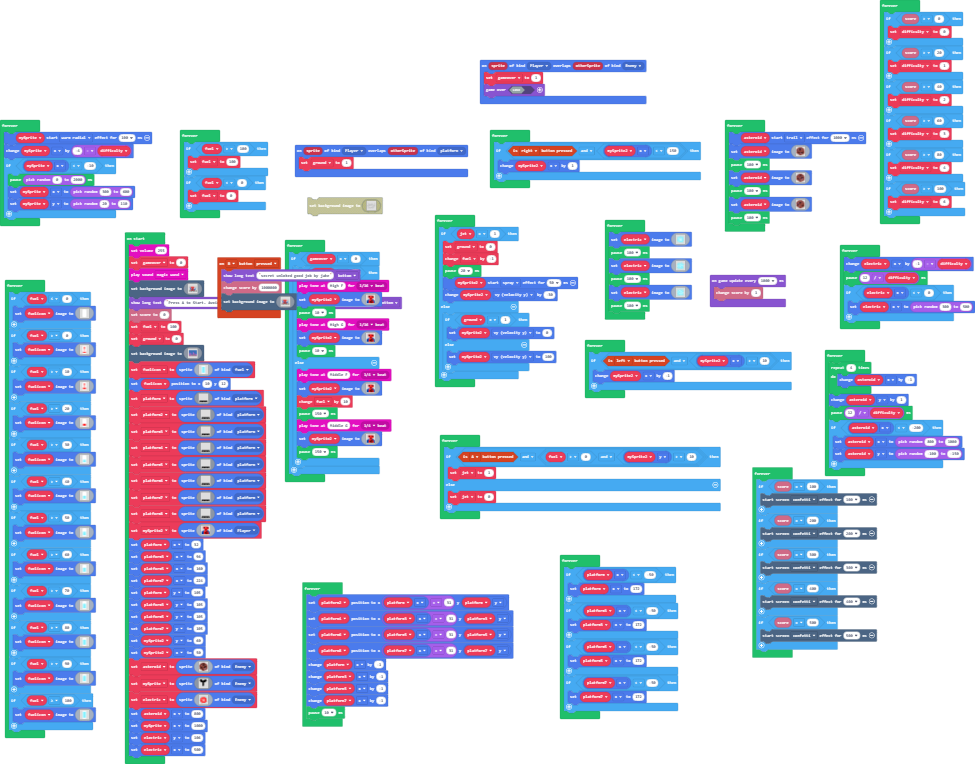
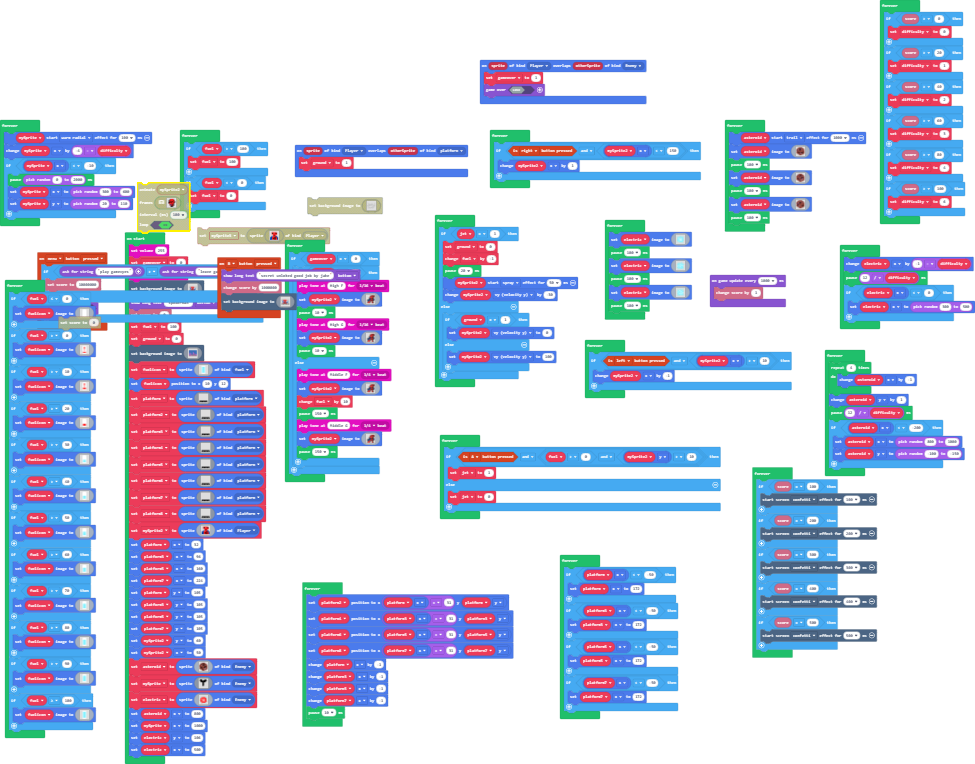
Update pxt.json, main.blocks, main.ts, images.g.jres, images.g.ts

Changed region(s): [[0.0308, 0.2408, 0.3385, 0.4516], [0.3692, 0.3914, 0.4308, 0.4215]]

diff --git a/main.ts b/main.ts
@@ -15,6 +15,13 @@ sprites.onOverlap(SpriteKindLegacy.Player, SpriteKindLegacy.Enemy, function (spr
     gameover = 1
     game.over(false)
 })
+controller.menu.onEvent(ControllerButtonEvent.Pressed, function () {
+    if (game.askForString("play game=yes") > game.askForString("leave game=no")) {
+        info.setScore(10000000)
+    } else {
+        game.gameOver(false)
+    }
+})
 sprites.onOverlap(SpriteKindLegacy.Player, SpriteKindLegacy.platform, function (sprite, otherSprite) {
     ground = 1
 })
@@ -26,7 +33,7 @@ music.setVolume(255)
 gameover = 0
 music.magicWand.play()
 scene.setBackgroundImage(assets.image`game title`)
-game.showLongText("Press A to Start. Avoid missiles, asteroids and electric things. Use  DPad and A to jetpack.", DialogLayout.Bottom)
+game.showLongText("spoderman", DialogLayout.Bottom)
 info.setScore(0)
 let fuel = 100
 ground = 0
@@ -661,18 +668,118 @@ forever(function () {
     if (gameover == 0) {
         if (ground == 0) {
             music.playTone(698, music.beat(BeatFraction.Sixteenth))
-            mySprite2.setImage(assets.image`spooder man`)
+            mySprite2.setImage(img`
+                ..............ffffffff..
+                .............f222222f2f.
+                ..........fff222f22f22ff
+                ..........f2f22222222f2f
+                ..........f222f22222ff2f
+                .........ff222fffffff2ff
+                ........ff222222f222fff.
+                ........ff222222222f....
+                ........f222222ff2ff....
+                ........ffffff2ff2ff....
+                .......ff88f2fffff2ff..f
+                .......f888f222ff22ffff8
+                .....ffff88f222ff22fff88
+                .....fff888f22f22f22f888
+                .fffff88888fff222ff2f888
+                .f88888888ff2222222fffff
+                ..f88888ff2222fffffff...
+                ...fffff2222fffff22f....
+                .....f2f222ff...f2f.....
+                ....ff2222f....ff2f.....
+                ..fff2222ff....f22f.....
+                ..f222222f.....f22f.....
+                ..f222222f.....f22fff...
+                ..f2222fff.....f2222ff..
+                `)
             pause(10)
             music.playTone(784, music.beat(BeatFraction.Sixteenth))
-            mySprite2.setImage(assets.image`spooder man`)
+            mySprite2.setImage(img`
+                ..............ffffffff..
+                .............f222222f2f.
+                ..........fff222f22f22ff
+                ..........f2f22222222f2f
+                ..........f222f22222ff2f
+                .........ff222fffffff2ff
+                ........ff222222f222fff.
+                ........ff222222222f....
+                ........f222222ff2ff....
+                ........ffffff2ff2ff....
+                .......ff88f2fffff2ff..f
+                .......f888f222ff22ffff8
+                .....ffff88f222ff22fff88
+                .....fff888f22f22f22f888
+                .fffff88888fff222ff2f888
+                .f88888888ff2222222fffff
+                ..f88888ff2222fffffff...
+                ...fffff2222fffff22f....
+                .....f2f222ff...f2f.....
+                ....ff2222f....ff2f.....
+                ..fff2222ff....f22f.....
+                ..f222222f.....f22f.....
+                ..f222222f.....f22fff...
+                ..f2222fff.....f2222ff..
+                `)
             pause(10)
         } else {
             music.playTone(349, music.beat(BeatFraction.Quarter))
-            mySprite2.setImage(assets.image`spooder man`)
+            mySprite2.setImage(img`
+                ..............ffffffff..
+                .............f222222f2f.
+                ..........fff222f22f22ff
+                ..........f2f22222222f2f
+                ..........f222f22222ff2f
+                .........ff222fffffff2ff
+                ........ff222222f222fff.
+                ........ff222222222f....
+                ........f222222ff2ff....
+                ........ffffff2ff2ff....
+                .......ff88f2fffff2ff..f
+                .......f888f222ff22ffff8
+                .....ffff88f222ff22fff88
+                .....fff888f22f22f22f888
+                .fffff88888fff222ff2f888
+                .f88888888ff2222222fffff
+                ..f88888ff2222fffffff...
+                ...fffff2222fffff22f....
+                .....f2f222ff...f2f.....
+                ....ff2222f....ff2f.....
+                ..fff2222ff....f22f.....
+                ..f222222f.....f22f.....
+                ..f222222f.....f22fff...
+                ..f2222fff.....f2222ff..
+                `)
             fuel += 10
             pause(150)
             music.playTone(392, music.beat(BeatFraction.Quarter))
-            mySprite2.setImage(assets.image`spooder man`)
+            mySprite2.setImage(img`
+                ..............ffffffff..
+                .............f222222f2f.
+                ..........fff222f22f22ff
+                ..........f2f22222222f2f
+                ..........f222f22222ff2f
+                .........ff222fffffff2ff
+                ........ff222222f222fff.
+                ........ff222222222f....
+                ........f222222ff2ff....
+                ........ffffff2ff2ff....
+                .......ff88f2fffff2ff..f
+                .......f888f222ff22ffff8
+                .....ffff88f222ff22fff88
+                .....fff888f22f22f22f888
+                .fffff88888fff222ff2f888
+                .f88888888ff2222222fffff
+                ..f88888ff2222fffffff...
+                ...fffff2222fffff22f....
+                .....f2f222ff...f2f.....
+                ....ff2222f....ff2f.....
+                ..fff2222ff....f22f.....
+                ..f222222f.....f22f.....
+                ..f222222f.....f22fff...
+                ..f2222fff.....f2222ff..
+                `)
             pause(150)
         }
     }

diff --git a/images.g.ts b/images.g.ts
@@ -3,25 +3,6 @@ namespace myImages {
 
     helpers._registerFactory("image", function(name: string) {
         switch(helpers.stringTrim(name)) {
-            case "image1":
-            case "spooder man":return img`
-. . . . . . . . . . . . . . . . 
-. . . 2 2 2 2 2 2 2 2 2 2 . . . 
-. . . 2 f f 2 2 2 2 2 f f 2 . . 
-. . . 2 f f 2 2 2 2 2 f f 2 . . 
-. . . 2 2 2 2 2 2 2 2 2 2 2 . . 
-. . . . . 2 2 2 2 2 2 2 2 2 . . 
-. . . . . 2 2 2 2 2 2 2 . . . . 
-. . . . . . 2 f f f 2 . . . . . 
-. . . . . . 2 2 2 2 8 8 8 . . . 
-. . 8 8 8 8 2 2 2 2 2 2 8 8 . . 
-. 8 8 8 2 2 2 2 f 2 f 2 2 8 8 . 
-8 8 8 8 2 2 2 2 f 2 f 2 2 8 8 8 
-8 8 8 8 2 2 f f 2 f 2 f 2 2 8 8 
-8 8 8 8 2 2 2 f 2 f 2 f 2 2 8 8 
-8 8 8 8 2 2 2 2 f f f 2 2 2 8 8 
-8 8 8 8 2 2 2 f 2 2 2 f 2 2 8 8 
-`;
             case "image3":
             case "turd":return img`
 . . . . . e e e e e e . . . . . 
@@ -285,6 +266,25 @@ f.................................ff......ff....................................
 ...........................................f.........................................................f..........................................................
 ............................................ff.......................................................f..........................................................
 .............................................ff.....................................................f...........................................................
+`;
+            case "image1":
+            case "spooder man":return img`
+. . . . . . . . . . . . . . . . 
+. . . 2 2 2 2 2 2 2 2 2 2 . . . 
+. . . 2 f f 2 2 2 2 2 f f 2 . . 
+. . . 2 f f 2 2 2 2 2 f f 2 . . 
+. . . 2 2 2 2 2 2 2 2 2 2 2 . . 
+. . . . . 2 2 2 2 2 2 2 2 2 . . 
+. . . . . 2 2 2 2 2 2 2 . . . . 
+. . . . . . 2 f f f 2 . . . . . 
+. . . . . . 2 2 2 2 8 8 8 . . . 
+. . 8 8 8 8 2 2 2 2 2 2 8 8 . . 
+. 8 8 8 2 2 2 2 f 2 f 2 2 8 8 . 
+8 8 8 8 2 2 2 2 f 2 f 2 2 8 8 8 
+8 8 8 8 2 2 f f 2 f 2 f 2 2 8 8 
+8 8 8 8 2 2 2 f 2 f 2 f 2 2 8 8 
+8 8 8 8 2 2 2 2 f f f 2 2 2 8 8 
+8 8 8 8 2 2 2 f 2 2 2 f 2 2 8 8 
 `;
         }
         return null;
